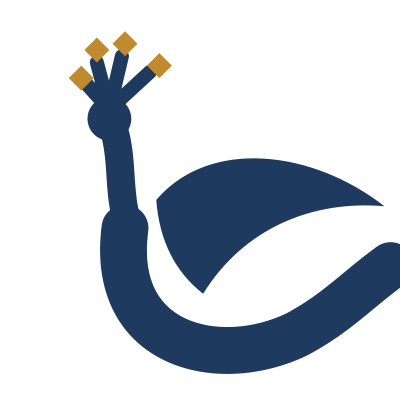
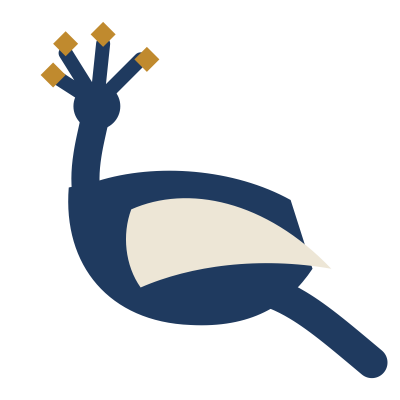
chore(worker): site-assets: All three fixes are in. I did not run git commit, because m…

diff --git a/site-prototypes/assets/index.html b/site-prototypes/assets/index.html
@@ -1,0 +1,16 @@
+<!doctype html>
+<html lang="en"><head><meta charset="utf-8"><title>Bayan brand assets: contact sheet (prototype)</title>
+<style>
+body{margin:0;font:14px/1.4 Georgia,serif}
+section{padding:24px 32px}
+.parchment{background:#F6F1E7;color:#1F3A5F}
+.night{background:#14202E;color:#EDE6D6}
+h2,h3{margin:0 0 12px}
+.row{display:flex;flex-wrap:wrap;gap:24px;align-items:flex-end;margin-bottom:20px}
+figure{margin:0;text-align:center}
+figcaption{font-size:12px;margin-top:6px}
+.night img[src*="wordmark"],.night img[src*="hoopoe"]{background:#14202E}
+</style></head><body>
+<section class="parchment"><h2>On parchment</h2><div class="row"><figure><img src="mark.svg" height="160" alt="mark"><figcaption>mark.svg</figcaption></figure><figure><img src="mark-on-night.svg" height="160" alt="mark-on-night"><figcaption>mark-on-night.svg</figcaption></figure><figure><img src="favicon.svg" height="160" alt="favicon"><figcaption>favicon.svg</figcaption></figure><figure><img src="wordmark.svg" height="160" alt="wordmark"><figcaption>wordmark.svg</figcaption></figure><figure><img src="hoopoe-flat-note.svg" height="160" alt="hoopoe-flat-note"><figcaption>hoopoe-flat-note.svg</figcaption></figure><figure><img src="hoopoe-flat-check.svg" height="160" alt="hoopoe-flat-check"><figcaption>hoopoe-flat-check.svg</figcaption></figure><figure><img src="hoopoe-flat-flight.svg" height="160" alt="hoopoe-flat-flight"><figcaption>hoopoe-flat-flight.svg</figcaption></figure><figure><img src="hoopoe-flat-scroll.svg" height="160" alt="hoopoe-flat-scroll"><figcaption>hoopoe-flat-scroll.svg</figcaption></figure><figure><img src="hoopoe-calligraphic.svg" height="160" alt="hoopoe-calligraphic"><figcaption>hoopoe-calligraphic.svg</figcaption></figure></div><h3>Mark sizes</h3><div class="row"><figure><img src="mark.svg" width="16" height="16" alt="mark 16px"><figcaption>16 px</figcaption></figure><figure><img src="mark.svg" width="32" height="32" alt="mark 32px"><figcaption>32 px</figcaption></figure><figure><img src="mark.svg" width="64" height="64" alt="mark 64px"><figcaption>64 px</figcaption></figure><figure><img src="mark.svg" width="256" height="256" alt="mark 256px"><figcaption>256 px</figcaption></figure></div></section>
+<section class="night"><h2>On night</h2><div class="row"><figure><img src="mark.svg" height="160" alt="mark"><figcaption>mark.svg</figcaption></figure><figure><img src="mark-on-night.svg" height="160" alt="mark-on-night"><figcaption>mark-on-night.svg</figcaption></figure><figure><img src="favicon.svg" height="160" alt="favicon"><figcaption>favicon.svg</figcaption></figure><figure><img src="wordmark.svg" height="160" alt="wordmark"><figcaption>wordmark.svg</figcaption></figure><figure><img src="hoopoe-flat-note.svg" height="160" alt="hoopoe-flat-note"><figcaption>hoopoe-flat-note.svg</figcaption></figure><figure><img src="hoopoe-flat-check.svg" height="160" alt="hoopoe-flat-check"><figcaption>hoopoe-flat-check.svg</figcaption></figure><figure><img src="hoopoe-flat-flight.svg" height="160" alt="hoopoe-flat-flight"><figcaption>hoopoe-flat-flight.svg</figcaption></figure><figure><img src="hoopoe-flat-scroll.svg" height="160" alt="hoopoe-flat-scroll"><figcaption>hoopoe-flat-scroll.svg</figcaption></figure><figure><img src="hoopoe-calligraphic.svg" height="160" alt="hoopoe-calligraphic"><figcaption>hoopoe-calligraphic.svg</figcaption></figure></div><h3>Mark sizes</h3><div class="row"><figure><img src="mark-on-night.svg" width="16" height="16" alt="mark 16px"><figcaption>16 px</figcaption></figure><figure><img src="mark-on-night.svg" width="32" height="32" alt="mark 32px"><figcaption>32 px</figcaption></figure><figure><img src="mark-on-night.svg" width="64" height="64" alt="mark 64px"><figcaption>64 px</figcaption></figure><figure><img src="mark-on-night.svg" width="256" height="256" alt="mark 256px"><figcaption>256 px</figcaption></figure></div></section>
+</body></html>
